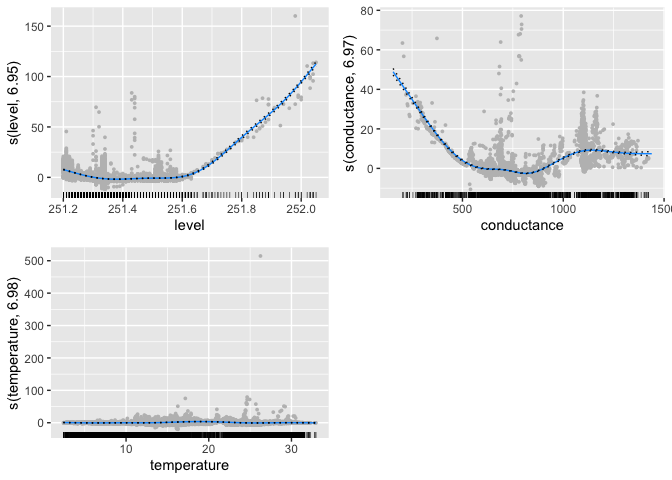
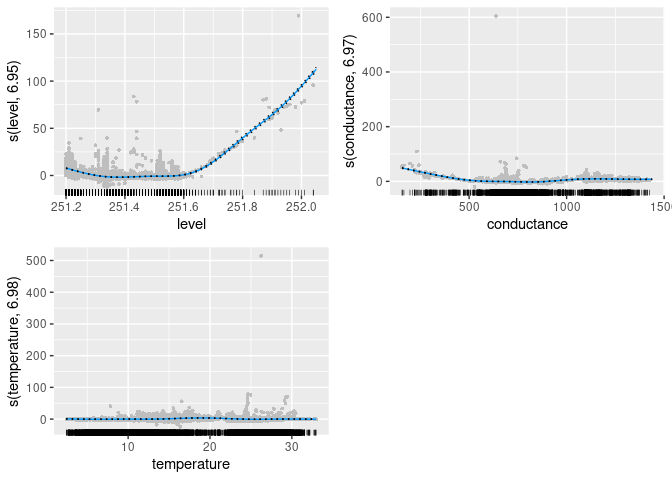
Updated readme

diff --git a/README.md b/README.md
@@ -35,7 +35,7 @@ one of the aquatic NEON field sites hosted by the US Forest Service.
 This data contains water-quality variables such as, turbidity, specific
 conductance, dissolved oxygen, pH and fDOM along with surface elevation
 and surface temperature from two sites located about 200m apart. Data
-are available from $2019-07-01$ to $2019-12-31$ at every 5 mintues.
+are available from 2019-07-01 to 2019-12-31 at every 5 mintues.
 
 In this example we choose turbidity from upstream and downstream sites
 to calculate the cross-correlation while conditioning on level,
@@ -45,7 +45,10 @@ Let us first prepare data as follows
 
 ``` r
 library(conduits)
-library(tidyverse)
+library(dplyr)
+library(tidyr)
+library(ggplot2)
+library(mgcViz)
 ```
 
 # Data
@@ -58,7 +61,7 @@ US Forest Service.
 This data contains water-quality variables such as turbidity, specific
 conductance, dissolved oxygen, pH and fDOM along with surface elevation
 and surface temperature from two sites located about 200m apart. Data
-are available from $2019-07-01$ to $2019-12-31$ at every 5 minutes.
+are available from 2019-07-01 to 2019-12-31 at every 5 minutes.
 
 In this example, we choose turbidity from upstream and downstream sites
 to calculate the cross-correlation while conditioning on the water
@@ -67,13 +70,14 @@ level, temperature and conductance from the upstream location.
 Let us first prepare data as follows
 
 ``` r
-data <- NEON_PRIN_5min_cleaned %>%
-  dplyr::filter(site == "upstream") %>%
-  dplyr::select(Timestamp, turbidity, level,
-                conductance, temperature) %>%
-  tsibble::as_tsibble(index = Timestamp)
+data <- NEON_PRIN_5min_cleaned |>
+  filter(site == "upstream") |>
+  select(
+    Timestamp, turbidity, level,
+    conductance, temperature
+  ) 
 head(data)
-#> # A tsibble: 6 x 5 [5m] <UTC>
+#> # A tibble: 6 × 5
 #>   Timestamp           turbidity level conductance temperature
 #>   <dttm>                  <dbl> <dbl>       <dbl>       <dbl>
 #> 1 2019-07-01 00:00:00     1.55   251.        821.        29.6
@@ -86,16 +90,15 @@ head(data)
 
 ### Conditional normalisation
 
-The following code shows how to normalise downstream turbidity from
-upstream sites.
+The following code shows how to normalise turbidity from a specific
+site.
 
 ``` r
-# Estimating conditional mean of the turbidity from the upstream site 
-
-fit_mean <- data %>%
+# Estimating conditional mean of the turbidity from the site given other measurements
+fit_mean <- data |>
   conditional_mean(
-    turbidity ~ s(level, k = 8) + s(conductance, k = 8) + s(temperature, k = 8))
-
+    turbidity ~ s(level, k = 8) + s(conductance, k = 8) + s(temperature, k = 8)
+  )
 summary(fit_mean)
 #> 
 #> Family: gaussian 
@@ -121,45 +124,30 @@ summary(fit_mean)
 #> 
 #> R-sq.(adj) =  0.687   Deviance explained = 68.7%
 #> GCV = 29.604  Scale est. = 29.591    n = 49796
-class(fit_mean)
-#> [1] "conditional_moment" "gam"                "glm"               
-#> [4] "lm"
 
-# Visualizing the fitted smooth functions  in the conditional mean model for turbidity  downstream with the predictors, water level  and temperature from upstream sensor.
-
-# using plotting functions in mgcViz package
-library(mgcViz)
-viz_mean <- mgcViz::getViz(fit_mean)
-p <- plot(viz_mean, allTerms = T) +
+# Visualizing the fitted smooth functions in the conditional mean model
+viz_mean <- getViz(fit_mean)
+p <- plot(viz_mean, allTerms = TRUE) +
   l_points(size = 1, shape = 16, color = "gray") +
   l_fitLine(linetype = 1, color = "#0099FF") +
   l_ciLine(linetype = 3) +
   l_ciBar() +
   l_rug() +
   theme_grey()
-
-p$plots[[1]] <- p$plots[[1]] 
-p$plots[[2]] <- p$plots[[2]] 
-print(p, pages = 1)
+print(p, pages=1)
 ```
 
 <img src="man/figures/README-conditional_moments-1.png" width="100%" />
 
 ``` r
 
-
-# Estimating conditional variance of the turbidity from the upstream site 
-
-fit_var <- data %>%
+# Estimating conditional variance of the turbidity from the site given other measurements
+fit_var <- data |>
   conditional_var(
     turbidity ~ s(level, k = 7) + s(conductance, k = 7) + s(temperature, k = 7),
     family = "Gamma",
-    fit_mean
+    fit_mean = fit_mean
   )
-
-class(fit_var)
-#> [1] "conditional_moment" "gam"                "glm"               
-#> [4] "lm"
 summary(fit_var)
 #> 
 #> Family: Gamma 
@@ -187,69 +175,78 @@ summary(fit_var)
 #> GCV = 4.9694  Scale est. = 212.02    n = 49796
 
 # Normalize the series using conditional moments
-new_ts <- data %>%
-  dplyr::mutate(
-    ystar = normalize(., turbidity, fit_mean, fit_var))
+new_ts <- data |>
+  transmute(
+    Timestamp = Timestamp,
+    Normalized = normalize(data, turbidity, fit_mean, fit_var),
+    Original = turbidity
+  )
+
+# Plot both the normalized and original series
+new_ts |> 
+  pivot_longer(-Timestamp, names_to = "variable", values_to = "Turbidity") |> 
+  mutate(variable = factor(variable, levels = c("Original", "Normalized"))) |> 
+  ggplot(aes(x=Timestamp, y=Turbidity)) +
+  facet_grid(variable ~ ., scales = "free_y") +
+  geom_line()
 ```
+
+<img src="man/figures/README-conditional_moments-2.png" width="100%" />
 
 ### Conditional cross-correlation
 
 The following code shows how to compute conditional cross-correlation
-between upstream and downstream at given lags
+between upstream and downstream observations at given lags.
 
 ``` r
-old_ts <- NEON_PRIN_5min_cleaned %>%
-  dplyr::select(
+old_ts <- NEON_PRIN_5min_cleaned |>
+  select(
     Timestamp, site, turbidity, level,
     conductance, temperature
-  ) %>%
-  tidyr::pivot_wider(
+  ) |>
+  pivot_wider(
     names_from = site,
     values_from = turbidity:temperature
   )
-
-fit_mean_y <- old_ts %>%
+fit_mean_y <- old_ts |>
   conditional_mean(turbidity_downstream ~
-  s(level_upstream, k = 8) +
+    s(level_upstream, k = 8) +
     s(conductance_upstream, k = 8) +
-    s(temperature_upstream, k = 8))
-
-fit_var_y <- old_ts %>%
+    s(temperature_upstream, k = 8)
+  )
+fit_var_y <- old_ts |>
   conditional_var(
     turbidity_downstream ~
-    s(level_upstream, k = 7) +
+      s(level_upstream, k = 7) +
       s(conductance_upstream, k = 7) +
       s(temperature_upstream, k = 7),
     family = "Gamma",
-    fit_mean_y
+    fit_mean = fit_mean_y
   )
-
-fit_mean_x <- old_ts %>%
+fit_mean_x <- old_ts |>
   conditional_mean(turbidity_upstream ~
-  s(level_upstream, k = 8) +
+    s(level_upstream, k = 8) +
     s(conductance_upstream, k = 8) +
-    s(temperature_upstream, k = 8))
-
-fit_var_x <- old_ts %>%
+    s(temperature_upstream, k = 8)
+  )
+fit_var_x <- old_ts |>
   conditional_var(
     turbidity_upstream ~
-    s(level_upstream, k = 7) +
+      s(level_upstream, k = 7) +
       s(conductance_upstream, k = 7) +
       s(temperature_upstream, k = 7),
     family = "Gamma",
-    fit_mean_x
+    fit_mean = fit_mean_x
   )
-
-fit_c_ccf <- old_ts %>%
-  tidyr::drop_na() %>%
+fit_c_ccf <- old_ts |>
+  drop_na() |>
   conditional_ccf(
-    I(turbidity_upstream * turbidity_downstream) ~ splines::ns(
-      level_upstream,
-      df = 5
-    ) +
+    I(turbidity_upstream * turbidity_downstream) ~ 
+      splines::ns(level_upstream, df = 5) +
       splines::ns(temperature_upstream, df = 5),
     lag_max = 10,
-    fit_mean_x, fit_var_x, fit_mean_y, fit_var_y,
+    fit_mean_x = fit_mean_x, fit_var_x = fit_var_x, 
+    fit_mean_y = fit_mean_y, fit_var_y = fit_var_y,
     df_correlation = c(5, 5)
   )
 ```
@@ -263,29 +260,34 @@ Compute lag time between upstream and downstream sensors with the
 predictors, water level and temperature from upstream sensor
 
 ``` r
-Estimate_dt <- fit_c_ccf %>% conduits::estimate_dt()
+Estimate_dt <- fit_c_ccf |> estimate_dt()
 ```
 
 Visualize the estimated lag time between upstream and downstream sensors
 
 ``` r
-p <- Estimate_dt %>%
-  select(Timestamp, turbidity_downstream, turbidity_upstream,
-         dt, max_ccf) %>%
-  drop_na() %>%
-  pivot_longer(cols = turbidity_downstream:max_ccf) %>%
+Estimate_dt |>
+  select(
+    Timestamp, turbidity_downstream, turbidity_upstream,
+    dt, max_ccf
+  ) |>
+  drop_na() |>
+  pivot_longer(cols = turbidity_downstream:max_ccf) |>
   mutate(name = factor(
-    name, 
-    levels = c("turbidity_downstream", "turbidity_upstream" ,
-               "dt", "max_ccf"),
-    labels = c("(a) Turbidity-downstream", "(b) Turbidity-upstream" ,
-               "(c) Lag time (dt)", "(d) Maximum conditional cross-correlation"))) %>%
-  tsibble::as_tsibble(index = Timestamp, key = name) %>%
-  fabletools::autoplot(colour="black") +
-  facet_wrap(~name, nrow = 4, scale ="free_y") +
+    name,
+    levels = c(
+      "turbidity_downstream", "turbidity_upstream",
+      "dt", "max_ccf"
+    ),
+    labels = c(
+      "(a) Turbidity-downstream", "(b) Turbidity-upstream",
+      "(c) Lag time (dt)", "(d) Maximum conditional cross-correlation"
+    )
+  )) |>
+  ggplot(aes(x = Timestamp, y = value)) +
+    geom_line() +
+  facet_wrap(~name, nrow = 4, scale = "free_y") +
   theme(legend.position = "none")
-
-print(p)
 ```
 
 <img src="man/figures/README-unnamed-chunk-5-1.png" width="100%" />
